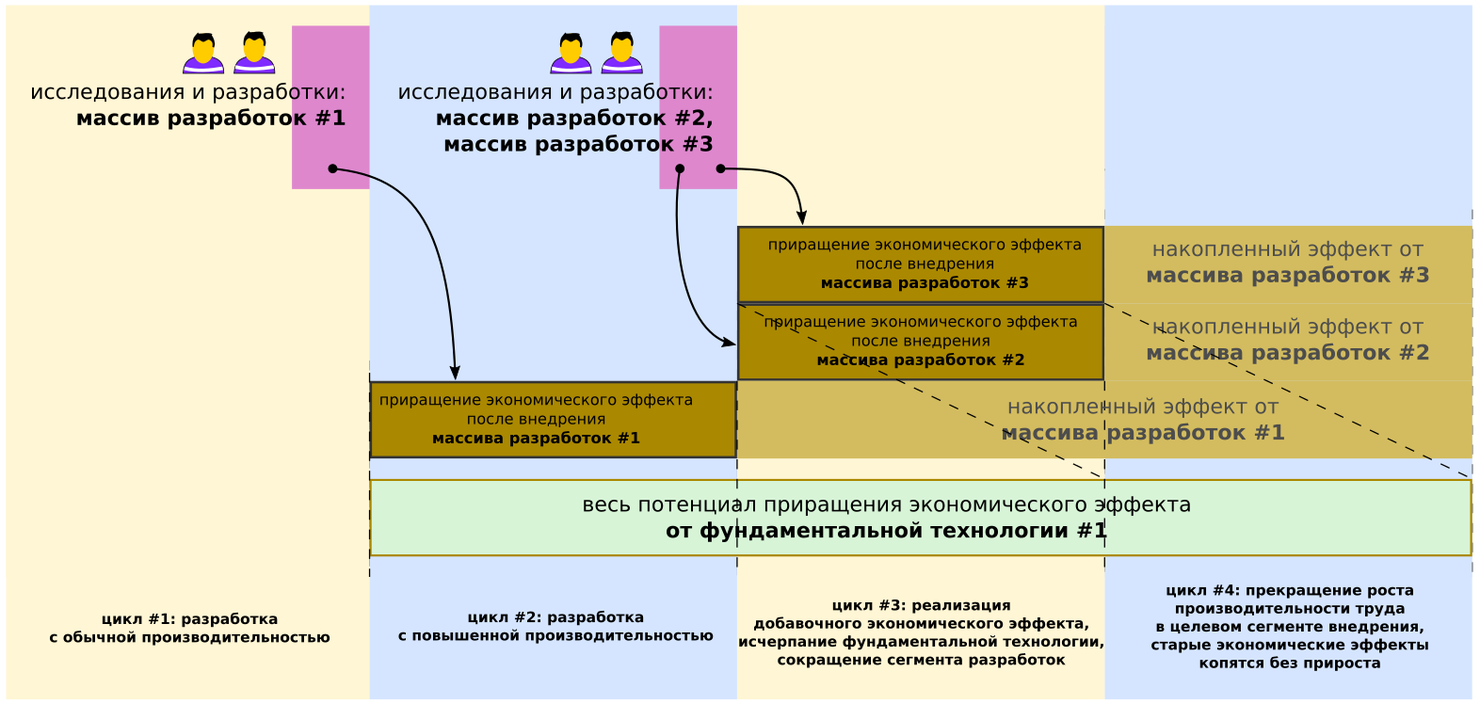
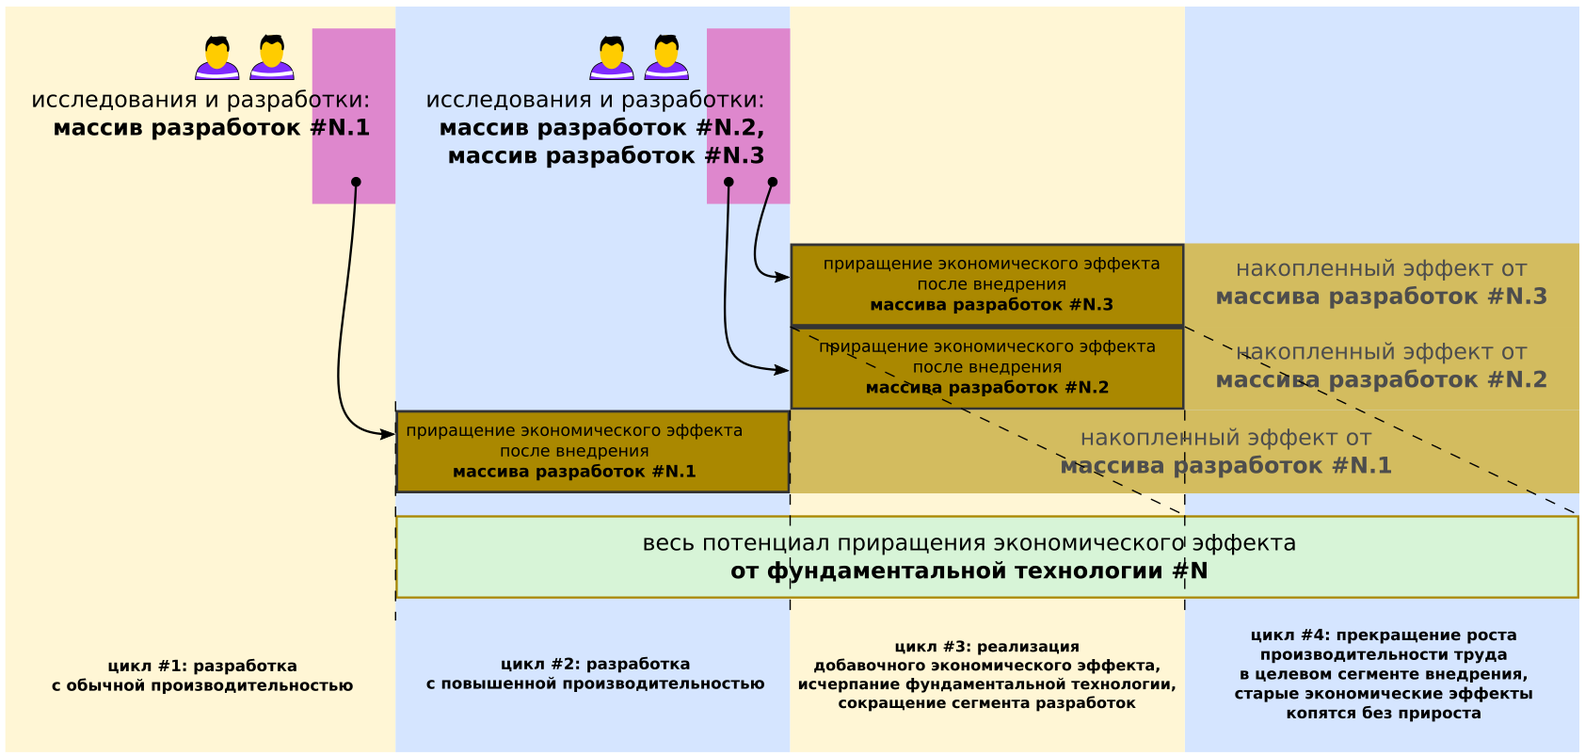
Добавить еще немного ссылок с примерами, косметические правки в рисунки, косметические правки в формулировки и опечатки

diff --git a/src/it-automata-part3-world-eco.tex b/src/it-automata-part3-world-eco.tex
@@ -161,7 +161,7 @@
 
 В том случае, если процесс реинвестирования реализуется циклично, сегмент разработок на каждом очередном цикле создаёт все новые интеллектуальные продукты, черпает из прочих сегментов экономики все новые экономические эффекты, которые вновь инвестируются в создание новых технологий. В этом случае создаётся видимость, что технологии более не нуждаются в первоначальных инвестициях из нетехнологических сегментов, т.~к. часть реализованного эффекта от старой технологии создаёт условия создания новой технологии, в рамках этой логики сегмент технологий обеспечивает и воспроизводит сам себя.
 
-В действительности, текущая деятельность технологической компании и регулярное перераспределение части реализованного экономического эффекта в ее пользу становится необходимым условием сохранения новой повышенной производительности на достигнутом уровне у ее клиентов. В том случае, если внедренный технологический продукт будет изъят из установившихся рабочих процессов, производительность понизится до старого уровня, экономический эффект проявится со знаком минус. В программном продукте, продававшемся по модели бессрочной лицензии компанией, прекратившей деятельность или прекратившей поддержку старого продукта, может обнаружиться критическая проблема, которая сделает невозможным его дальнейшую эксплуатацию без исправлений, которые в отсутствие разработчика никогда не будут сделаны. Технологическая компания, продающая «чистое» ПО по модели подписки, может отозвать право на использование ПО\footnote{«Autodesk, американский разработчик систем автоматизированного проектирования (САПР) для строительства, проектирования и промышленного дизайна, с 20 марта [2024] запретила использование своих программных продуктов российскими компаниями. Об этом говорится в письме, которое Autodesk направила своим партнерам в России.» \cite{rbcAutodeskForbidsRussia2024}}. Регулярная покупка доступа к аппаратному обеспечению технологических компаний, продающих облачные сервисы, для покупателя сервиса становится необходимым условием ведения текущей деятельности с установившейся повышенной производительностью, поэтому прекращение доступа к сервису\footnote{«Американская компания Microsoft отправила российским компаниям письмо о том, что c 20 марта 2024 года закроет доступ к своим облачным продуктам для российских организаций.» \cite{rbcMicrosoftCancelCloudRussia2024}} в отсутствие сопоставимых альтернатив приведет к понижению производительности на стороне бывшего потребителя\footnote{первый вице"=президент Газпромбанка: «Если мы немедленно проведем импортозамещение, бизнес"=процессы встанут» \cite{tadviserGazprombankSubstImport2024}}, т.~е. в конечном итоге приведет к излишним тратам или прямой потере средств.
+В действительности, текущая деятельность технологической компании и регулярное перераспределение части реализованного экономического эффекта в ее пользу становится необходимым условием сохранения новой повышенной производительности на достигнутом уровне у ее клиентов. В том случае, если внедренный технологический продукт будет изъят из установившихся рабочих процессов, производительность понизится до старого уровня, экономический эффект проявится со знаком минус\footnote{«Parametrix, the leading provider of cloud monitoring, modeling, and insurance services, estimates that the total direct financial loss facing the US Fortune 500 companies (excluding Microsoft) from the CrowdStrike outage on 19 July [2024] is \$5.4 billion. <...> In-depth analysis by Parametrix estimates that the largest direct financial loss will be suffered by Fortune 500 companies in the healthcare sector (\$1.938 billion), followed by banking (\$1.149 billion). Companies in these sectors take 57\% of the loss, but account for only 20\% of Fortune 500 revenues, due to the uneven impact of the event on business sectors. Manufacturing, the largest sector by revenue, suffered a trivial loss of just \$36 million in total when compared to its annual revenue of \$3.4 trillion across 130 companies, while the event cost the six Fortune 500 airlines approximately \$860 million, against revenue of \$187.1 billion.» \cite{parametrixCrowdStrike2024}}. В программном продукте, продававшемся по модели бессрочной лицензии компанией, прекратившей деятельность или прекратившей поддержку старого продукта, может обнаружиться критическая проблема, которая сделает невозможным его дальнейшую эксплуатацию без исправлений, которые в отсутствие разработчика никогда не будут сделаны. Технологическая компания, продающая «чистое» ПО по модели подписки, может отозвать право на использование ПО\footnote{«Autodesk, американский разработчик систем автоматизированного проектирования (САПР) для строительства, проектирования и промышленного дизайна, с 20 марта [2024] запретила использование своих программных продуктов российскими компаниями. Об этом говорится в письме, которое Autodesk направила своим партнерам в России.» \cite{rbcAutodeskForbidsRussia2024}}. Регулярная покупка доступа к аппаратному обеспечению технологических компаний, продающих облачные сервисы, для покупателя сервиса становится необходимым условием ведения текущей деятельности с установившейся повышенной производительностью, поэтому прекращение доступа к сервису\footnote{«Американская компания Microsoft отправила российским компаниям письмо о том, что c 20 марта 2024 года закроет доступ к своим облачным продуктам для российских организаций.» \cite{rbcMicrosoftCancelCloudRussia2024}} в отсутствие сопоставимых альтернатив приведет к понижению производительности на стороне бывшего потребителя\footnote{первый вице"=президент Газпромбанка: «Если мы немедленно проведем импортозамещение, бизнес"=процессы встанут» \cite{tadviserGazprombankSubstImport2024}}, т.~е. в конечном итоге приведет к излишним тратам или прямой потере средств.
 
 Эффект от технологических разработок является накапливаемым: если разработка не окупила затраты на текущем экономическом цикле внедрения, но ее использование было продолжено, эффект будет проявлять себя и накапливаться на следующих циклах и окупит первоначальные расходы в более долгой перспективе. Фактически, эффект проявляет себя все время, когда технология применяется в производстве, даже если денежный поток не идёт от потребителя технологии к разработчику, выгоду получает потребитель технологии, в масштабах мировой фабрики — всё общество. От инженерных разработок ожидают относительно короткого срока окупаемости. В случае с научными разработками нормальным является обстоятельство, что их эффект влияния на экономику обычно проявляет себя в удаленной перспективе. При том, что на каждом цикле общество продолжит нести расходы на сегмент технологий, они расходуются на создание новых разработок, которые проявят себя дополнительными экономическими эффектами, не имеющими прямого отношения к рассматриваемому текущему циклу внедрения. Реализация экономического эффекта от внедрения разработок в любом случае удалена во времени от цикла, в рамках которого они проведены\footnote{Microsoft: «Significant revenue from new product and service investments may not be achieved for a number of years, if at all.» \cite{microsoft10K2006}}.
 
@@ -169,7 +169,9 @@
 
 В 1999-2001 годы компания Майкрософт разрабатывала операционную систему Windows XP \cite{winsupersiteWindowsXP2001} и некоторые другие крупные программные продукты такие, как офисный пакет MS Office XP, платформа .Net для разработчиков программного обеспечения. Расходы на исследования и разработки за этот период в общей сложности составили \$11 млрд.\footnote{Отчет Microsoft 10-K за 2001, «Research and development» (в млн.): 2,970 (1999) + 3,772 (2000) + 4,379 (2001) = \$11,121 (\$11 млрд.)» \cite{microsoft10K2001}}, часть этой суммы была потрачена на разработку Windows XP. Продажи Windows XP начались в октябре 2001, в январе 2007 года была выпущена Windows Vista. Значительную долю выручки по статье «настольные операционные системы» (в отчетах — «Client»\footnote{«Client segment includes Windows XP, Windows 2000, and other standard Windows operating systems.» \cite{microsoft10K2003}}) за этот период времени с 2001 по конец 2006 года составили продажи лицензий на Windows XP, вся выручка по этой статье за это время составила \$56.7 млрд.\footnote{Отчеты Microsoft 10-K за 2003, 2006, «Revenue: Client» (в млн.): 9,360 (2002) + 10,394 (2003) + 11,556 (2004) + 12,151 (2005) + 13,209 (2006) = \$56,670 (\$56.7 млрд.) \cite{microsoft10K2003, microsoft10K2006}} и, таким образом, окупила все разаботки предшествующего периода, включая разработку самой Windows XP. Компания Майкрософт ведет разработку преимущественно в США\footnote{Microsoft: «Our research and development facilities are located primarily in Redmond, Washington. We also have smaller research facilities in other parts of the United States and around the world, including, but not limited to, China, Denmark, England, India, Ireland, and Israel. <...> As of June 30, 2006, we employed approximately 71,000 people on a full-time basis, 44,000 in the United States and 27,000 internationally.» \cite{microsoft10K2006}}, продажа разработанных продуктов, а значит внедрение и реализация экономических эффектов, происходят в множестве стран по всему миру\footnote{Microsoft: «We operate in over 100 countries and a significant part of our revenue comes from international sales.» \cite{microsoft10K2006}}. В течение 2006-2023 Майкрософт ежегодно реинвестировала в разработки 12-15\% выручки, с 1998 по 2005 — 14-22\% \cite{microsoftSecProfile}. В 2000 году в отделе исследований и разработок компании трудилось 16 тыс. сотрудников, в 2023 — 72 тыс. человек \cite{microsoftSecProfile}.
 
-К действительным технологическим компаниям следует относить такие компании, которые, получая доход от продажи технологических продуктов на рынке, реинвестируют значительную долю дохода в исследования и разработки новых технологических продуктов, а также регулярно выводят на рынок новые технологические продукты, которые, будучи внедрены в целевых сегментах мировой фабрики, ещё больше повышают общемировую производительность труда. В том случае, если компания, продающая на рынке программное обеспечение по модели подписки, перестает выводить на рынок новые продукты или если выводимые на рынок улучшения старого успешного продукта не создают в точках внедрения достаточного добавочного экономического эффекта, можно говорить о том, что такая компания из центра технологических разработок и источника повышения производительности мировой фабрики выродилась в своеобразного сборщика «налога» на программное обеспечение\footnote{«U.S. regulators sued Adobe on Monday over claims that the company made it difficult to cancel subscriptions to Photoshop and other software, an escalation by regulators in a crackdown against such practices. <...> In recent years, Adobe has shifted to offering subscriptions for those products, scrapping its previous model of selling one-off licenses to use the tools. <...> The company earned \$14.22 billion in revenue from subscriptions in 2023, up from \$7.71 billion in 2019, the government said. <...> Adobe took steps to lock consumers into yearly subscriptions billed in monthly increments, the lawsuit argued. <...> “Some of these subscribers do not realize for months that Adobe is continuing to charge them, and only learn about the charges when they review their financial accounts.”» \cite{nyTimesUsSuesAdobe2024}}, питаемого эффектом повышенной производительности, достигнутой на предыдущих экономических циклах. Технологические компании, продающие доступ к собственной облачной инфраструктуре, в действительности продают на рынке не программное обеспечение, а аппаратное обеспечение, затрачиваемую энергию и труд обслуживающего персонала (в т.~ч. системных администраторов и контент"=модераторов). Регулярное обновление аппаратного обеспечения\footnote{«Microsoft, Meta, and Google’s parent company, Alphabet, disclosed this week that they had spent more than \$32 billion combined on data centers and other capital expenses in just the first three months of the [2024] year.» \cite{nyTimesInRaceToBuildAi2024}} и регулярный труд обслуживающего персонала становится условием продолжения присутствия облачного сервиса на рынке, регулярная покупка доступа к этой инфраструктуре и ее потребление в рамках текущей деятельности — условием сохранения установившейся повышенной производительности труда на стороне клиентов сервиса. В том случае, если такая компания перестает реинвестировать доход от продажи облачной инфраструктуры в создание новых продуктов и значительные улучшения существующих продуктов, можно говорить о том, что она из технологической компании превращается в компанию, ведущую деятельность преимущественно в специфической части сегмента материального производства.
+К действительным технологическим компаниям следует относить такие компании, которые, получая доход от продажи технологических продуктов на рынке, реинвестируют значительную долю дохода в исследования и разработки новых технологических продуктов, а также регулярно выводят на рынок новые технологические продукты, которые, будучи внедрены в целевых сегментах мировой фабрики, ещё больше повышают общемировую производительность труда\footnote{«Data from recent Microsoft business-value studies reviewed by BearingPoint Inc., formerly KPMG Consulting, demonstrate the value to the enterprise of Windows XP Professional over Windows 95 or Windows 98. For example, Windows XP Professional provided customers with an average return on investment of more than 200 percent and an annual savings of from \$187 per desktop to \$387 for mobile users as calculated over a three-year period.» \cite{microsoftNewsWindowsXpProfessionalSavings2002}}. В том случае, если компания, продающая на рынке программное обеспечение по модели подписки, перестает выводить на рынок новые продукты или если выводимые на рынок улучшения старого успешного продукта не создают в точках внедрения достаточного добавочного экономического эффекта, можно говорить о том, что такая компания из центра технологических разработок и источника повышения производительности мировой фабрики выродилась в своеобразного сборщика «налога» на программное обеспечение\footnote{«U.S. regulators sued Adobe on Monday over claims that the company made it difficult to cancel subscriptions to Photoshop and other software, an escalation by regulators in a crackdown against such practices. <...> In recent years, Adobe has shifted to offering subscriptions for those products, scrapping its previous model of selling one-off licenses to use the tools. <...> The company earned \$14.22 billion in revenue from subscriptions in 2023, up from \$7.71 billion in 2019, the government said. <...> Adobe took steps to lock consumers into yearly subscriptions billed in monthly increments, the lawsuit argued. <...> “Some of these subscribers do not realize for months that Adobe is continuing to charge them, and only learn about the charges when they review their financial accounts.”» \cite{nyTimesUsSuesAdobe2024}}, питаемого эффектом повышенной производительности, достигнутой на предыдущих экономических циклах.
+
+Технологические компании, продающие доступ к собственной облачной инфраструктуре, в действительности продают на рынке не программное обеспечение, а аппаратное обеспечение, затрачиваемую энергию и труд обслуживающего персонала (в т.~ч. системных администраторов и контент"=модераторов). Регулярное обновление аппаратного обеспечения\footnote{«Microsoft, Meta, and Google’s parent company, Alphabet, disclosed this week that they had spent more than \$32 billion combined on data centers and other capital expenses in just the first three months of the [2024] year.» \cite{nyTimesInRaceToBuildAi2024}} и регулярный труд обслуживающего персонала становится условием продолжения присутствия облачного сервиса на рынке, регулярная покупка доступа к этой инфраструктуре и ее потребление в рамках текущей деятельности — условием сохранения установившейся повышенной производительности труда на стороне клиентов сервиса. В том случае, если такая компания перестает реинвестировать доход от продажи облачной инфраструктуры в создание новых продуктов и значительные улучшения существующих продуктов, можно говорить о том, что она из технологической компании превращается в компанию, ведущую деятельность преимущественно в специфической части сегмента материального производства.
 
 \section*{\raggedright{Фонд свободного времени}}
 
@@ -187,7 +189,7 @@
 
 Определенную известность в технологическом сообществе получило т.~н. «правило 20\%» из правил внутреннего распорядка компании Google, в рамках которого предполагалось, что разработчики компании имеют возможность тратить часть своего рабочего времени на собственные инициативные разработки. Однако, исходная формулировка «правила» подразумевала возможность вести работу не над личными проектами, а инициировать внутрикорпоративные разработки в относительно свободном режиме\footnote{«Founders Larry Page and Sergey Brin highlighted the idea in their 2004 IPO letter: “We encourage our employees, in addition to their regular projects, to spend 20\% of their time working on what they think will most benefit Google,” they wrote. <...> Huge 20\% products include the development Google News, Gmail, and even AdSense.» \cite{businessinsiderGoogle20percentTruth2015}}. Действие правила внутри компании в настоящее время также ставится под сомнение\footnote{«Google’s “20\% time,” which allows employees to take one day a week to work on side projects, effectively no longer exists. That’s according to former Google employees, one who spoke to Quartz on the condition of anonymity and others who have said it publicly. <...> Google began to require that engineers get approval from management to take 20\% time in order to work on independent projects, a marked departure from the company’s previous policy of making 20\% time a right of all Googlers. Recently, however, Google’s upper management has clamped down even further, by strongly discouraging managers from approving any 20\% projects at all.» \cite{qzGoogle20percentDead2013}}. 
 
-Механизм появления коммерческих предприятий из персональных разработок, проведенных автором по личной инициативе, нашел отражение в культе т.~н. «гаражных» стартапов\footnote{«The garage is central to the origin of many corporate success stories in the twentieth century, from chauffeur to entrepreneur; the space originally intended for the storage of automobiles has become a symbol, a myth, a banal object in the domestic landscape that gave birth to the industrial tech complex.» \cite{fastcompanySilliconValleyGarageMyth2018}}. В рамках канона, первые шаги по реализации нового революционного продукта автор или небольшой коллектив реализуют в «личном гараже» \cite{dilbertGarage1}, используя при этом исключительно личное время и средства. После демонстрации успешности идеи разработка развивается в коммерческую корпорацию, привлекая для роста внешний капитал \cite{dilbertGarage2}. Хотя модель имеет под собой исторические корни и многие состоявшиеся продукты, действительно, начинались по личной инициативе без привлечения внешних ресурсов, под действием всеобщего положительного отношения к образу «гаражной» разработки состоявшиеся корпорации иногда включают такой этап в описания ранних этапов своей истории даже в том случае, если это не вполне соответствует действительности\footnote{«The development of the Google algorithms was carried on on a variety of Computers, mainly provided by the NSF-DARPA-NASA-funded Digital Library project at Stanford. Crawling the web to obtain its link structure required an enormous amount of storage in comparison with typical student projects at that time. We show here the original storage assembly, containing 10 4 Gigabyte disk drives, giving 40 Gbytes total.» \cite{stanfordOriginalGoogleComputer1996} (на ссылки указывает преподаватель МФТИ Юрий Аммосов https://t.me/kedr2earth/8591)}\footnote{«Wozniak, however, doesn't really see that location as a crucial part of Apple's history. “The garage is a bit of a myth,” he told Bloomberg Businessweek's Brandon Lisy when asked whether the garage was important to Apple's story. “We did no designs there, no breadboarding, no prototyping, no planning of products. We did no manufacturing there.”» \cite{businessinsiderAppleGarageMyth2014}}. Из этого можно заключить, что мифы такого рода, по их мнению, положительно влияют на общественный имидж компании, представляющей свою историю как инициативную «гаражную» разработку.
+Механизм появления коммерческих предприятий из персональных разработок, проведенных автором по личной инициативе, нашел отражение в культе т.~н. «гаражных» стартапов\footnote{«The garage is central to the origin of many corporate success stories in the twentieth century, from chauffeur to entrepreneur; the space originally intended for the storage of automobiles has become a symbol, a myth, a banal object in the domestic landscape that gave birth to the industrial tech complex.» \cite{fastcompanySilliconValleyGarageMyth2018}}. В рамках канона, первые шаги по реализации нового революционного продукта автор или небольшой коллектив реализуют в «личном гараже» \cite{dilbertGarage1}, используя при этом исключительно личные время и средства. После демонстрации успешности идеи разработка развивается в коммерческую корпорацию, привлекая для роста внешний капитал \cite{dilbertGarage2}. Хотя модель имеет под собой исторические корни и многие состоявшиеся продукты, действительно, начинались по личной инициативе без привлечения внешних ресурсов, под действием всеобщего положительного отношения к образу «гаражной» разработки состоявшиеся корпорации иногда включают такой этап в описания ранних этапов своей истории даже в том случае, если это не вполне соответствует действительности\footnote{«The development of the Google algorithms was carried on on a variety of Computers, mainly provided by the NSF-DARPA-NASA-funded Digital Library project at Stanford. Crawling the web to obtain its link structure required an enormous amount of storage in comparison with typical student projects at that time. We show here the original storage assembly, containing 10 4 Gigabyte disk drives, giving 40 Gbytes total.» \cite{stanfordOriginalGoogleComputer1996} (на ссылки указывает преподаватель МФТИ Юрий Аммосов https://t.me/kedr2earth/8591)}\footnote{«Wozniak, however, doesn't really see that location as a crucial part of Apple's history. “The garage is a bit of a myth,” he told Bloomberg Businessweek's Brandon Lisy when asked whether the garage was important to Apple's story. “We did no designs there, no breadboarding, no prototyping, no planning of products. We did no manufacturing there.”» \cite{businessinsiderAppleGarageMyth2014}}. Из этого можно заключить, что мифы такого рода, по их мнению, положительно влияют на общественный имидж компании, представляющей свою историю как инициативную «гаражную» разработку.
 
 Так или иначе, общий интерес и, в целом, положительное отношение к «правилу 20\%», к «гаражным» стартапам, а также к модели открытой разработки свободного программного обеспечения в технологической среде отражают общее положительное отношение к действующим или предполагаемым «недирективным» механизмам инициации некоторых разработок, которые в дальнейшем, тем не менее, доходят до стадии внедрения в экономику. Люди, имеющие достаточные навыки и необходимое свободное время, могут быть склонны к тому, чтобы использовать его для инициативного научно"=технического творчества\footnote{«Many in the FLOSS world see themselves as <...> people who enjoy programming as a creative, problem-solving activity.» \cite{sociologySociologicalKDE2011}}.
 
@@ -235,7 +237,7 @@
 
 Количество ресурсов, необходимых для реализации того или иного технологического проекта, зависит от текущего уровня научно"=технического прогресса, в т.~ч. от производительности интеллектуального труда исследователей и инженеров, в значительной степени определяемой инструментами разработки, которые есть в их распоряжении. В том случае, если появляется некоторый технический инструмент, который позволяет решить прежнюю инженерную задачу меньшими затратами труда, т.~е. заметно дешевле, это обстоятельство оказывает влияние на точку оптимальности соотношения между затратами труда на решение задачи и потенциальным экономическим эффектом, который можно получить ее решением. В некоторых ситуациях может оказаться, что экономический эффект от решения задач целевых сегментов мировой фабрики, решение которых было нецелесообразно с прежней производительностью труда инженеров, сможет окупить затраты на их решение, если при разработке применить новый набор инструментов. Таким образом, такое повышение производительности труда инженеров через создание новых инструментов для разработок, которое расширяет поле целесообразных, но ещё не решенных задач, расширяет размер потенциально достижимого экономического эффекта, создаёт условия для расширения сегмента разработок.
 
-По данным портала Internet live stats, количество веб-сайтов увеличилось на 438\% с 3 млн. в 1999 году до 17 млн. в 2000 году \cite{internetlivestatsTotalNumberOfWebsites2018}. По данным компании WebpageFX, нижняя планка обычной ожидаемой цены разработки веб-сайта в это же время опустилась почти в два с половиной раза, с \$6000 в 1998-2000 годы до \$2500 в 2000-2004 \cite{jlbworksTheCostOfWebsiteStats2014}. Вполне вероятно, что заметное снижение цены разработки типового веб-сайта могло расширить аудиторию потенциальных потребителей, которые теперь могли его себе позволить и в рамках текущей деятельности окупить. Понижение цены разработки среди прочих факторов могло быть вызвано появлением новых инструментов в области веб-разработки\footnote{«modern tools have made it much easier for Web designers to create great looking websites in much less time than before» \cite{jlbworksTheCostOfWebsiteStats2014}}. Конечно, на рост количества коммерческих веб-страниц влиял также рост общей аудитории интернета (с 16 млн. пользователей, 0.5\% населения Земли, в 1995 году до 5.5 млрд. пользователей, 69\% населения, в 2022 \cite{internetworldstatsInternetGrowsStats2022}), который делал всё более целесообразными расходы на создания веб-сайта. В 2023 году 71\% субъектов малого бизнеса имеют веб-сайт, в 2024 средняя цена разработки базового сайта составляет \$3200, количество сайтов составляет более миллиарда \cite{forbesWebsiteStats2024}.
+По данным портала Internet live stats, количество веб-сайтов увеличилось с 2.4 млн. в 1998 году до 51.6 млн. в 2004 году \cite{internetlivestatsTotalNumberOfWebsites2018}. По данным компании WebpageFX, нижняя планка обычной ожидаемой цены разработки веб-сайта в это же время опустилась почти в два с половиной раза, с \$6000 в 1998-2000 годы до \$2500 в 2000-2004 \cite{jlbworksTheCostOfWebsiteStats2014}. Справедливо предположить, что снижение цены разработки типового веб-сайта могло расширить аудиторию потенциальных потребителей, которые теперь могли его себе позволить и в рамках текущей деятельности окупить. Понижение цены разработки среди прочих факторов могло быть вызвано появлением новых инструментов в области веб-разработки\footnote{«modern tools have made it much easier for Web designers to create great looking websites in much less time than before» \cite{jlbworksTheCostOfWebsiteStats2014}}. На рост количества коммерческих веб-страниц влиял также рост общей аудитории интернета (с 16 млн. пользователей, 0.5\% населения Земли, в 1995 году до 147 млн. в 1998, до 817 млн. в 2004, до 5.5 млрд. пользователей, 69\% населения, в 2022, — по данным Internet World Stats \cite{internetworldstatsInternetGrowsStats2022}), который делал всё более целесообразными расходы на создание веб-сайта. В 2023 году 71\% субъектов малого бизнеса имеют веб-сайт, в 2024 средняя цена разработки базового сайта составляет \$3200, количество сайтов составляет более миллиарда \cite{forbesWebsiteStats2024}.
 
 Разработки, повышающие производительность труда инженеров, но не настолько, чтобы расширить поле потенциальных проектов, удешевляя и ускоряя процесс решения текущих типовых задач, позволяют реализовать весь потенциальный экономический эффект за более короткий промежуток времени (больше проектов будет реализовано и внедрено в целевые сегменты мировой фабрики за более короткое время). Тем самым на рассматриваемом периоде они приносят добавочный экономический эффект, вместе с тем ускоряют процесс исчерпания текущего поколения фундаментальных технологий. Но даже эволюционные технологии сами по себе не ведут к сокращению сегмента разработок — тенденция к сокращению проявит себя только тогда, когда текущее поколение технологий окажется, действительно, исчерпанным.
 
@@ -275,6 +277,7 @@
 \bibitem{wallstreetWeWorkCashed2019} WeWork Co-Founder Has Cashed Out at Least \$700 Million Via Sales, Loans / Eliot Brown, Maureen Farrell, Anupreeta Das // The Wall Street Journal, – 2019. [Электронный ресурс]. – URL: \url{https://www.wsj.com/articles/wework-co-founder-has-cashed-out-at-least-700-million-from-the-company-11563481395}
 \bibitem{forbesWeWorkTimeline2023} WeWork’s Rise To \$47 Billion—And Fall To Bankruptcy: A Timeline / Britney Nguyen // The Forbes, – 2023. [Электронный ресурс]. – URL: \url{https://www.forbes.com/sites/britneynguyen/2023/11/07/weworks-rise-to-47-billion-and-fall-to-bankruptcy-a-timeline/}
 \bibitem{agileSoftDevel2002} Agile Software Development Ecosystems / Jim Highsmith // Addison Wesley. – 2002. – С. 30-31. – eBook ISBN 0-201-76043-6
+\bibitem{parametrixCrowdStrike2024} CrowdStrike to Cost Fortune 500 \$5.4 billion // Parametrix, – 2024. [Электронный ресурс]. – URL: \url{https://web.archive.org/web/20240724143839/https://www.parametrixinsurance.com/in-the-news/crowdstrike-to-cost-fortune-500-5-4-billion}
 \bibitem{rbcAutodeskForbidsRussia2024} Autodesk запретила российским компаниям использовать свой софт / Екатерина Шокурова // РБК, – 2024. [Электронный ресурс]. – URL: \url{https://www.rbc.ru/technology_and_media/22/03/2024/65fd84b09a7947213a06d174}
 \bibitem{rbcMicrosoftCancelCloudRussia2024} Microsoft закроет доступ к облачным сервисам для компаний в России / Екатерина Ясакова, Елена Чернышова // РБК, – 2024. [Электронный ресурс]. – URL: \url{https://www.rbc.ru/technology_and_media/15/03/2024/65f452069a79470ded3adf19}
 \bibitem{tadviserGazprombankSubstImport2024} Александр Егоркин, Газпромбанк: Если мы немедленно проведем импортозамещение, бизнес-процессы встанут // TAdviser, – 2024. [Электронный ресурс]. – URL: \url{https://www.tadviser.ru/a/797630}
@@ -283,6 +286,7 @@
 \bibitem{microsoft10K2001} MICROSOFT CORPORATION, Form 10-K ANNUAL REPORT PURSUANT TO SECTION 13 OR 15(d) OF THE SECURITIES EXCHANGE ACT OF 1934 FOR THE FISCAL YEAR ENDED JUNE 30, 2001 // U.S. Securities and Exchange Commission, – 2001. [Электронный ресурс]. – URL: \url{https://www.sec.gov/Archives/edgar/data/789019/000103221001501099/d10k.txt}
 \bibitem{microsoft10K2003} MICROSOFT CORPORATION, Form 10-K ANNUAL REPORT PURSUANT TO SECTION 13 OR 15(d) OF THE SECURITIES EXCHANGE ACT OF 1934 FOR THE FISCAL YEAR ENDED JUNE 30, 2003 // U.S. Securities and Exchange Commission, – 2003. [Электронный ресурс]. – URL: \url{https://www.sec.gov/Archives/edgar/data/789019/000119312503045632/d10k.htm}
 \bibitem{microsoftSecProfile} MICROSOFT CORP MSFT on Nasdaq // U.S. Securities and Exchange Commission. [Электронный ресурс]. – URL: \url{https://www.sec.gov/edgar/browse/?CIK=789019}
+\bibitem{microsoftNewsWindowsXpProfessionalSavings2002} Microsoft Windows XP Professional Offers Billions of Dollars in Savings To Enterprise Customers Worldwide / Microsoft Source // Microsoft, – 2002. [Электронный ресурс]. – URL: \url{https://news.microsoft.com/2002/10/09/microsoft-windows-xp-professional-offers-billions-of-dollars-in-savings-to-enterprise-customers-worldwide/}
 \bibitem{nyTimesUsSuesAdobe2024} U.S. Sues Adobe Over Hard-to-Cancel Subscriptions / David McCabe // The New York Times, – 2024. [Электронный ресурс]. – URL: \url{https://www.nytimes.com/2024/06/17/technology/us-adobe-subscription-lawsuit.html}
 \bibitem{nyTimesInRaceToBuildAi2024} In Race to Build A.I., Tech Plans a Big Plumbing Upgrade / Karen Weise // The New York Times, – 2024. [Электронный ресурс]. – URL: \url{https://www.nytimes.com/2024/04/27/technology/ai-big-tech-spending.html}
 \bibitem{lwnLinuxKernelDevelStats2022} Development statistics for the 6.1 kernel (and beyond) / Jonathan Corbet // LWN.net, – 2022. [Электронный ресурс]. – URL: \url{https://lwn.net/Articles/915435/}

diff --git a/README.md b/README.md
@@ -12,7 +12,7 @@
 
 ---
 
-pdf: https://github.com/sadr0b0t/it-automata-part3/releases/download/v1.2-dec2025/it-automata-part3-world-eco-v1.2-dec2025.pdf
+pdf: https://github.com/sadr0b0t/it-automata-part3/releases/download/v1.3-dec2025/it-automata-part3-world-eco-v1.3-dec2025.pdf
 
 версии в релизах:
 https://github.com/sadr0b0t/it-automata-part3/releases
